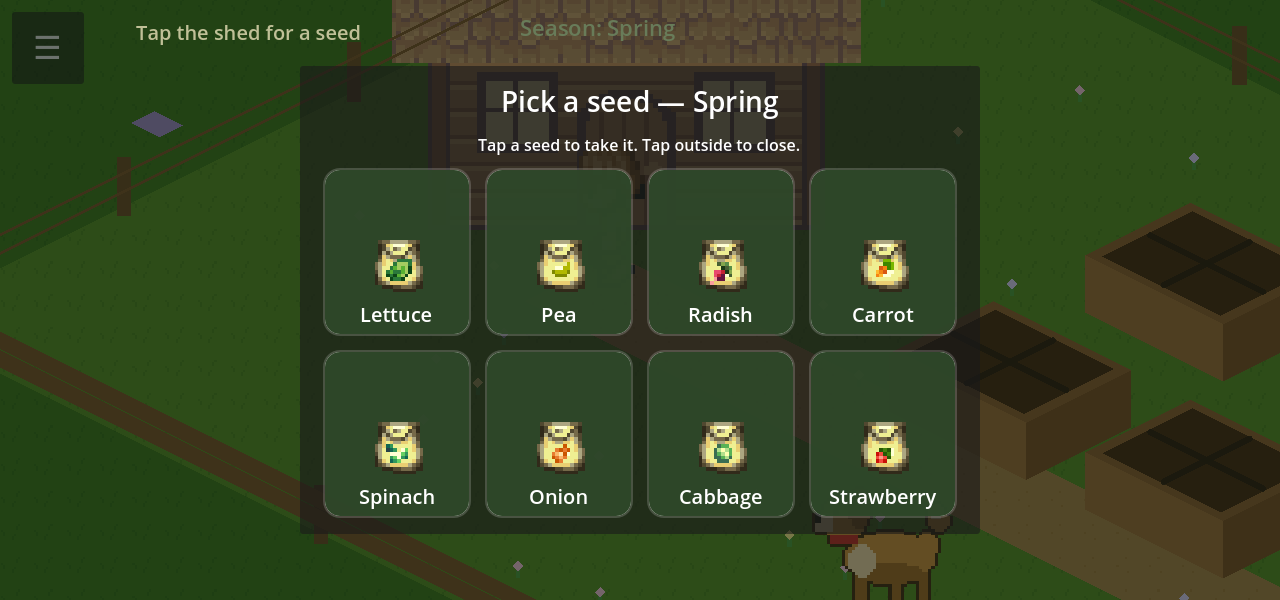
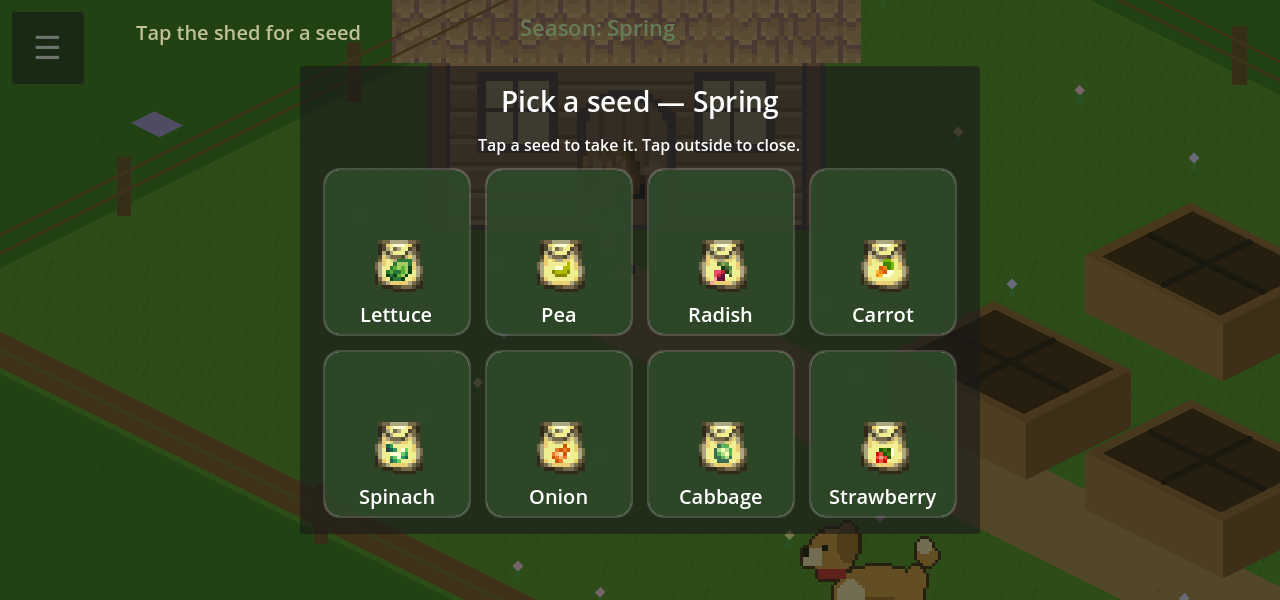
Garden Explorer: remove animal/bug tap-to-target chase
Walk once to the critter's position at tap time and open the reveal on
arrive. No repathing, no "Walking to" follow loop. Same-zone + gate rules
unchanged.

Changed region(s): [[0.625, 0.87, 0.75, 1.0]]

diff --git a/garden_explorer/docs/IMPLEMENTATION_PLAN_DEBUG_ROUND_2.md b/garden_explorer/docs/IMPLEMENTATION_PLAN_DEBUG_ROUND_2.md
@@ -140,12 +140,16 @@ original list.
   roaming animal stole, and asserts per-bed watering.
 
 ## Round 6 — zone targeting (2026-07-26)
-- Tap-to-target animals/bugs is same-zone only: dog + garden bugs from the
-  garden; pen animals + pen bugs only once the player is already inside the
-  pen. Cross-fence animal taps never start follow.
+- Animal/bug interact is same-zone only: dog + garden bugs from the garden;
+  pen animals + pen bugs only once the player is already inside the pen.
 - Gate routing is separate: FarmMap.find_path concatenates garden→gate→pen
   (and the reverse) for cross-boundary walks. Same-side walks never visit
-  the gate. Animal follow never asks the pathfinder to cross the fence.
+  the gate.
+
+## Round 6b — remove tap-to-target chase (2026-07-26)
+- Removed animal/bug follow repathing and "Walking to {name}." chase.
+  Tap walks once to the critter's position at tap time, then opens the
+  reveal on arrive. If they wander off, tap again.
 
 ## Always
 - Headless unit tests + ux_suite after each phase; rebuild APK & install last.
